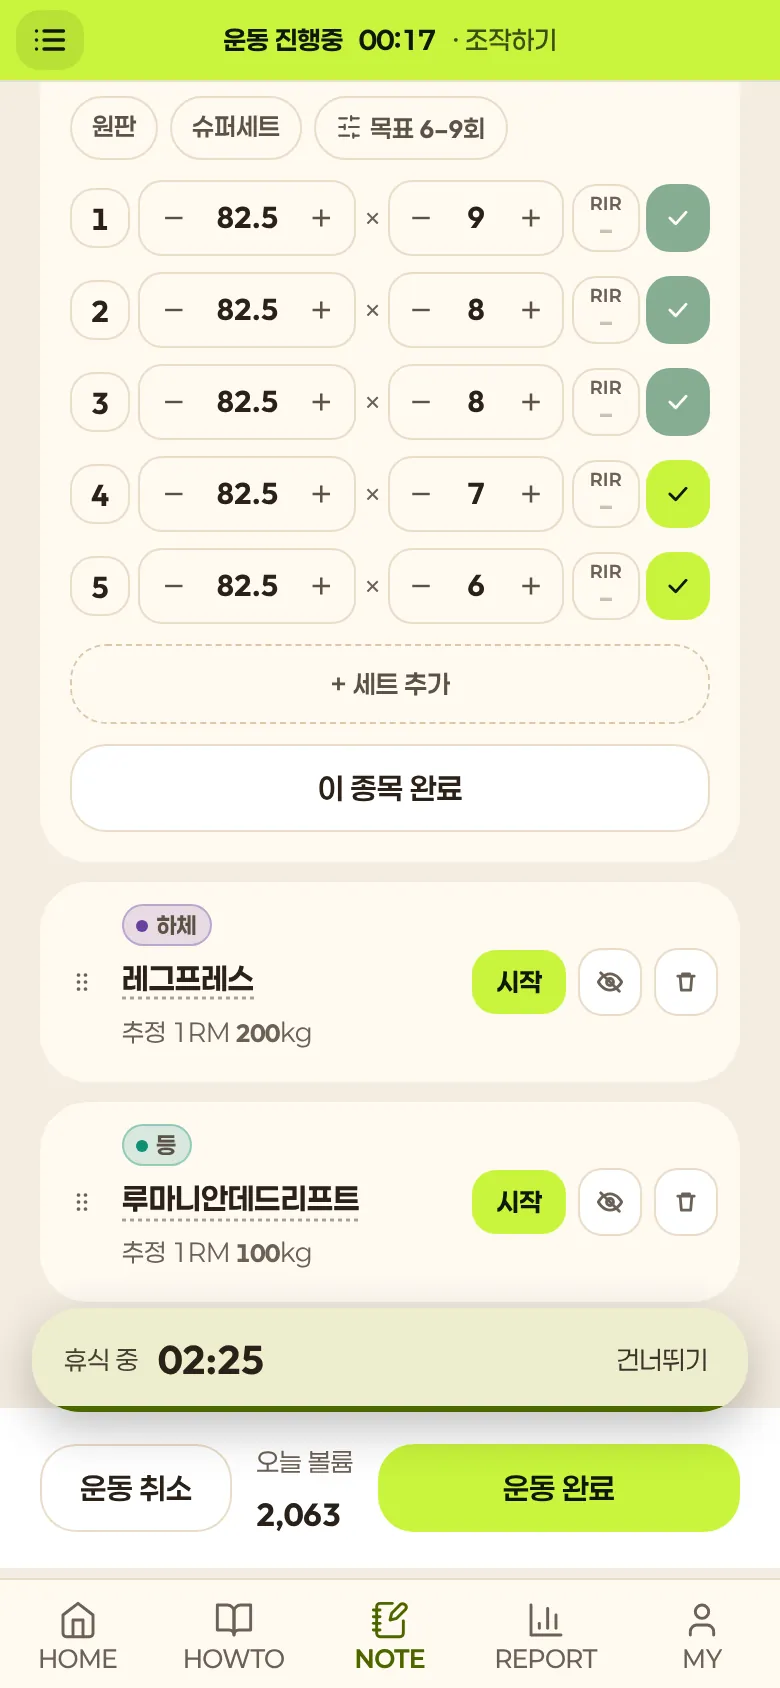
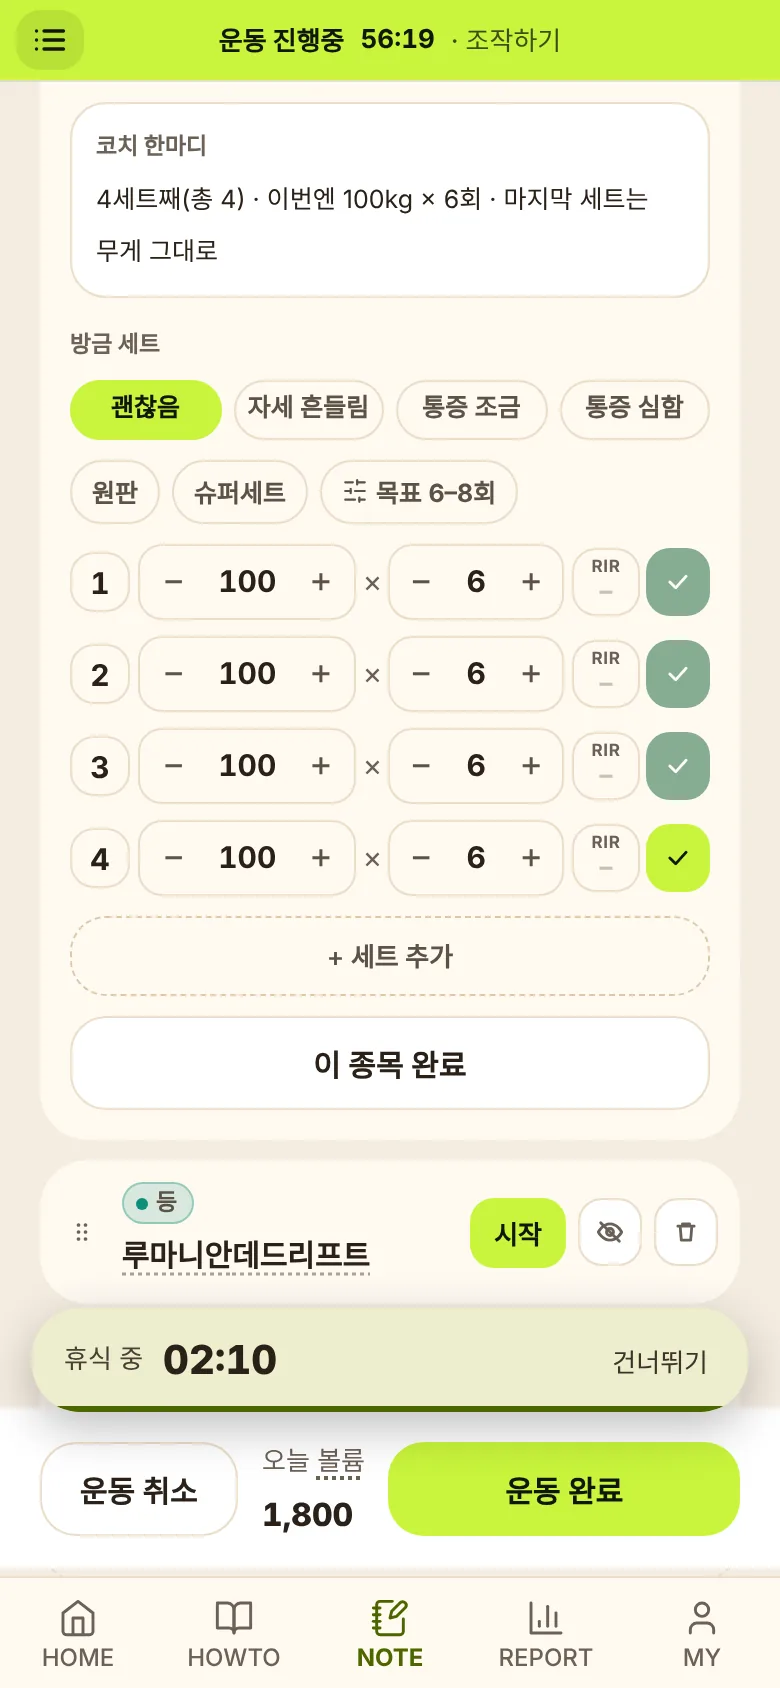
운동 기록 기기 보관·새 기록만 읽기, 홍보 캡처 3장 최신화
전체 운동 기록을 localStorage bt-logs:{uid}에 보관하고 다음부터 createdAt·updatedAt 기준 새 기록만 읽음(10분 겹침, 하루 한 번 전체 맞춤, 오프라인 결과는 보관 안 함). 본인 최근 N개·날짜 범위 조회도 보관본에서 거름. updateWorkoutLog가 updatedAt 저장. 로그아웃·탈퇴 때 보관본 삭제.

홍보 페이지 cap-rest·cap-done·cap-calendar 다시 찍음.

Claude-Session: https://claude.ai/code/session_01KGz5zPYeKa3pP3q5ULu5w4

diff --git a/src/storage.js b/src/storage.js
@@ -818,7 +818,8 @@ export async function updateWorkoutLog(uid, logId, partial) {
   recentLogsCache = null
   patchAllLogsCache(uid, (list) => list.map((l) => (l.id === logId ? readLogDoc({ id: logId, data: () => ({ ...l, ...partial }) }) : l)))
   // [2026-11-01] 오프라인에서 '저장 중'에 멈추지 않게(전체 점검 U3)
-  await settleOrTimeout(updateDoc(doc(db, 'workoutLogs', uid, 'logs', logId), partial))
+  // [2026-11-12] 다른 기기가 고친 기록만 골라 읽을 수 있게 updatedAt을 남긴다(getAllWorkoutLogs)
+  await settleOrTimeout(updateDoc(doc(db, 'workoutLogs', uid, 'logs', logId), { ...partial, updatedAt: serverTimestamp() }))
   rebuildPersonalRecords(uid, { withActivity: 'date' in (partial || {}) || 'exercises' in (partial || {}) }).catch(() => {})
 }
 
@@ -861,6 +862,9 @@ export async function deleteWorkoutLogAndRevertXp(uid, logId, xp) {
 }
 
 export async function getWorkoutLogsInRange(uid, fromDateStr, toDateStr) {
+  // [2026-11-12] 이 기기에 전체 기록 보관본이 있으면 거기서 거른다(새 기록만 읽어 맞춘 목록, 본인 기록만 - 트레이너가 보는 회원 기록은 그대로 조회)
+  const local = await localLogs(uid)
+  if (local) return local.filter((l) => l.date >= fromDateStr && l.date <= toDateStr)
   const col = collection(db, 'workoutLogs', uid, 'logs')
   const q = query(
     col,
@@ -879,23 +883,106 @@ function readLogDoc(d) {
 
 // [2026-10-27 신규] 전체 운동 기록(CSV 내보내기·성취·PR 재계산), 날짜 오름차순
 // [2026-10-31] Spark 읽기 절약: 같은 탭(세션)에서는 한 번만 읽고, 이 기기에서 기록을 저장·수정·삭제하면
-// 비운다(invalidateRecentLogsCache). 다른 기기에서 쓴 기록은 앱을 다시 열면 반영된다.
+// 캐시에 그 자리에서 반영한다(patchAllLogsCache).
+// [2026-11-12] 앱을 열 때마다 전체 기록을 처음부터 읽지 않게, 이 기기(localStorage `bt-logs:{uid}`)에 보관하고
+// 다음부터는 새로 만들어졌거나(createdAt) 고친(updatedAt) 기록만 읽는다. 다른 기기에서 지운 기록은
+// 하루 한 번 전체를 다시 읽어 맞춘다. 서버 시각과 기기 시각 차이를 감안해 10분 겹쳐 읽는다(같은 ID는 하나로).
+// 저장 시 createdAt·updatedAt(Timestamp)은 빼고 보관한다(화면에서 쓰지 않음). 로그아웃·탈퇴 때 지운다(firebase.js logout).
 // 돌려받은 배열은 여러 화면이 함께 쓰므로 수정하지 말 것.
 let allLogsCache = null // { uid, at, promise }
+const ALL_LOGS_TTL_MS = 10 * 60 * 1000
+const LOGS_STORE_VERSION = 1
+const LOGS_FULL_REFRESH_MS = 24 * 60 * 60 * 1000
+const LOGS_SYNC_OVERLAP_MS = 10 * 60 * 1000
+const LOGS_STORE_MAX_CHARS = 3_500_000
+const logsStoreKey = (uid) => `bt-logs:${uid}`
+const logTsMs = (t) => (t?.toMillis ? t.toMillis() : typeof t?.seconds === 'number' ? t.seconds * 1000 : 0)
+// 같은 날짜는 문서 ID 순(Firestore 정렬과 같게 - 최근 N개를 뒤에서 자를 때 결과가 같도록)
+const byDateAsc = (a, b) => (a.date < b.date ? -1 : a.date > b.date ? 1 : a.id < b.id ? -1 : a.id > b.id ? 1 : 0)
+
+function readLogsStore(uid) {
+  try {
+    const s = JSON.parse(localStorage.getItem(logsStoreKey(uid)) || 'null')
+    if (!s || s.v !== LOGS_STORE_VERSION || s.uid !== uid || !Array.isArray(s.logs)) return null
+    return s
+  } catch {
+    return null
+  }
+}
+function writeLogsStore(uid, logs, mark, fullAt) {
+  try {
+    const clean = logs.map(({ createdAt, updatedAt, ...rest }) => rest)
+    const text = JSON.stringify({ v: LOGS_STORE_VERSION, uid, mark, fullAt, logs: clean })
+    if (text.length > LOGS_STORE_MAX_CHARS) throw new Error('too big')
+    localStorage.setItem(logsStoreKey(uid), text)
+  } catch {
+    // 용량이 넘치거나 저장할 수 없으면 보관하지 않는다(다음에 전체를 읽음)
+    try {
+      localStorage.removeItem(logsStoreKey(uid))
+    } catch {}
+  }
+}
+// 문서들 가운데 가장 늦은 서버 시각(createdAt·updatedAt)
+function latestMark(docs, prev = 0) {
+  let m = prev
+  docs.forEach((d) => {
+    const data = d.data()
+    m = Math.max(m, logTsMs(data.createdAt), logTsMs(data.updatedAt))
+  })
+  return m
+}
+
+async function loadAllLogs(uid) {
+  const col = collection(db, 'workoutLogs', uid, 'logs')
+  const stored = readLogsStore(uid)
+  const now = Date.now()
+  if (stored && stored.mark && now - (stored.fullAt || 0) < LOGS_FULL_REFRESH_MS) {
+    const since = Timestamp.fromMillis(Math.max(0, stored.mark - LOGS_SYNC_OVERLAP_MS))
+    const [created, updated] = await Promise.all([
+      getDocs(query(col, where('createdAt', '>', since))),
+      getDocs(query(col, where('updatedAt', '>', since))),
+    ])
+    const fresh = new Map()
+    ;[...created.docs, ...updated.docs].forEach((d) => fresh.set(d.id, readLogDoc(d)))
+    const logs = [...stored.logs.filter((l) => !fresh.has(l.id)), ...fresh.values()].sort(byDateAsc)
+    // 오프라인이라 기기 캐시에서 온 결과면 기준 시각을 옮기지 않는다(연결되면 다시 맞춤)
+    const offline = created.metadata?.fromCache || updated.metadata?.fromCache
+    writeLogsStore(uid, logs, offline ? stored.mark : latestMark([...created.docs, ...updated.docs], stored.mark), stored.fullAt)
+    return logs
+  }
+  const snap = await getDocs(query(col, orderBy('date', 'asc')))
+  const logs = snap.docs.map(readLogDoc)
+  // 기록이 없거나 서버 시각이 없는 옛 기록뿐이면 지금 시각을 기준으로(겹쳐 읽기 10분이 있어 놓치지 않음)
+  // 오프라인이면 일부만 받았을 수 있어 보관하지 않는다
+  if (!snap.metadata?.fromCache) writeLogsStore(uid, logs, latestMark(snap.docs) || now - LOGS_SYNC_OVERLAP_MS, now)
+  return logs
+}
+
+// 본인 기록 보관본(또는 이번 세션 캐시)이 있으면 전체 기록 목록, 없거나 실패하면 null(호출한 쪽이 직접 조회)
+async function localLogs(uid) {
+  if (!uid) return null
+  if (!(allLogsCache && allLogsCache.uid === uid) && !readLogsStore(uid)) return null
+  try {
+    return await getAllWorkoutLogs(uid)
+  } catch {
+    return null
+  }
+}
+
 export function getAllWorkoutLogs(uid) {
-  // 오프라인 때 받은 일부 결과가 오래 고정되지 않게 10분이 지나면 다시 읽는다
-  if (allLogsCache && allLogsCache.uid === uid && Date.now() - allLogsCache.at < 10 * 60 * 1000) return allLogsCache.promise
-  const promise = getDocs(query(collection(db, 'workoutLogs', uid, 'logs'), orderBy('date', 'asc')))
-    .then((snap) => snap.docs.map(readLogDoc))
-    .catch((err) => {
-      if (allLogsCache?.promise === promise) allLogsCache = null
-      throw err
-    })
+  // 오프라인 때 받은 일부 결과가 오래 고정되지 않게 10분이 지나면 다시 맞춘다(보관본이 있으면 새 기록만 읽음)
+  if (allLogsCache && allLogsCache.uid === uid && Date.now() - allLogsCache.at < ALL_LOGS_TTL_MS) return allLogsCache.promise
+  const promise = loadAllLogs(uid).catch((err) => {
+    if (allLogsCache?.promise === promise) allLogsCache = null
+    throw err
+  })
   allLogsCache = { uid, at: Date.now(), promise }
   return promise
 }
 
 export async function getRecentWorkoutLogs(uid, count = 10) {
+  const local = await localLogs(uid)
+  if (local) return local.slice(-count).reverse()
   const col = collection(db, 'workoutLogs', uid, 'logs')
   const q = query(col, orderBy('date', 'desc'), limit(count))
   const snap = await getDocs(q)
@@ -912,10 +999,20 @@ function invalidateRecentLogsCache() {
 }
 // [2026-11-10] 이 기기에서 저장·수정·삭제한 기록을 전체 기록 캐시에 바로 반영(다시 읽지 않음). 캐시가 없으면 아무것도 안 함.
 // 날짜 오름차순 유지, 배열은 새로 만든다(여러 화면이 같은 배열을 읽으므로 고치지 않음).
+// [2026-11-12] 이 기기 보관본(bt-logs)도 같이 고친다. 메모리 캐시가 없으면 보관본만 고친다(다음 동기화 기준 시각은 그대로).
 function patchAllLogsCache(uid, fn) {
-  if (!allLogsCache || allLogsCache.uid !== uid) return
+  if (!allLogsCache || allLogsCache.uid !== uid) {
+    const stored = readLogsStore(uid)
+    if (stored) writeLogsStore(uid, fn(stored.logs).sort(byDateAsc), stored.mark, stored.fullAt)
+    return
+  }
   const prev = allLogsCache.promise
-  const promise = prev.then((list) => fn(list).sort((a, b) => (a.date < b.date ? -1 : a.date > b.date ? 1 : 0)))
+  const promise = prev.then((list) => {
+    const next = fn(list).sort(byDateAsc)
+    const stored = readLogsStore(uid)
+    if (stored) writeLogsStore(uid, next, stored.mark, stored.fullAt)
+    return next
+  })
   promise.catch(() => {
     if (allLogsCache?.promise === promise) allLogsCache = null
   })
@@ -1737,6 +1834,9 @@ function recentSeasonKeys(years = 3) {
 }
 export async function deleteMyAccountData(uid, onProgress) {
   invalidateRecentLogsCache()
+  try {
+    localStorage.removeItem(logsStoreKey(uid))
+  } catch {}
   onProgress?.('운동 기록을 지우는 중…')
   await deleteAllDocs(collection(db, 'workoutLogs', uid, 'logs'), onProgress, '운동 기록')
   onProgress?.('루틴을 지우는 중…')

diff --git a/src/App.jsx b/src/App.jsx
@@ -1,6 +1,7 @@
 /**
  * CHANGELOG: 이 파일 상단 주석이 20줄을 넘어 CHANGELOG.md(저장소 루트)로 분리했습니다.
- * 최신 변경: [2026-11-12] 근육 그림 인체 모형 비율·손발, 담당 트레이너 카드 프로필 표시.
+ * 최신 변경: [2026-11-12] 운동 기록을 기기에 보관하고 새 기록만 읽기(Firestore 읽기 절약), 홍보 캡처 3장 최신화.
+ *            직전: [2026-11-12] 근육 그림 인체 모형 비율·손발, 담당 트레이너 카드 프로필 표시.
  *            직전: [2026-11-11] 용어 뜻 보기(점선 말풍선 Term), 관리자 거절 사유 확인창, 옛 종목명 처방 키 정규화.
  *            그 전: [2026-11-11] 체중 추이(REPORT·MY), 근육 그림(REPORT·코치 프로그램), WorkoutInput 화면·훅 분리.
  *            직전: [2026-11-11] 남겨둔 작업: 트레이너 처방 무거운 세트 먼저·이탈 위험 기준·연락 문구·오늘 처리함·랭킹 100위 밖·WorkoutInput 분리.

diff --git a/src/firebase.js b/src/firebase.js
@@ -48,6 +48,12 @@ export function loginWithGoogle() {
 // 기록 중이던 운동 초안(localStorage)은 그대로 둔다. 캐시를 지운 Firestore는 다시 쓸 수 없어 첫 화면으로 새로 연다.
 export async function logout() {
   await signOut(auth)
+  // [2026-11-12] 이 기기에 보관한 운동 기록(storage.js getAllWorkoutLogs의 bt-logs:{uid})도 지운다
+  try {
+    Object.keys(localStorage)
+      .filter((k) => k.startsWith('bt-logs:'))
+      .forEach((k) => localStorage.removeItem(k))
+  } catch {}
   try {
     await terminate(db)
     await clearIndexedDbPersistence(db)

diff --git a/CLAUDE.md b/CLAUDE.md
@@ -2,7 +2,7 @@
 
 > 이 파일은 저장소 루트에 두고 Claude가 작업 시작 시 항상 먼저 읽는 작업 지침이다.
 > claude.ai 프로젝트 지침과 내용이 다르면 **이 파일이 최신 기준**이다. 규칙이 바뀌면 이 파일을 갱신하고 커밋한다.
-> 최종 갱신: 2026-11-12 (근육 그림 인체 모형 비율·담당 트레이너 카드 프로필, 용어 뜻 보기 Term·확인창 입력칸, 옛 CLAUDE.md 사본·PC 폴더 뒤처짐 사고 규칙, 푸시 뒤 인수인계 문서 자동 커밋, 전면 재검토 반영: ± 길게 누르기·해부도 근육 그림·트레이너 랭킹 제외·문구 용어 정리, 확대 막기·소리 크기·진동 세기·오늘 몸 상태 코칭·종목별 진행 방식, 코치 프로그램 줄 맞춤·운동명 HOWTO 연결·순간 강조 모션, 트레이너 처방·홍보 페이지 반영·동의 다시 받기 보류, 다음 채팅 인계·규칙 게시 확인, 전체 점검 반영, 로그 코치 2차: 생활 체력 종목·건강 체력 4가지·체력 점검, 로그 코치 '내 프로그램 만들기', 다음 채팅 인계 갱신, 푸시 전 확인 대기 작업 처리·규칙 파일 전달, 로그 코치 켜기·끄기·강화, 푸시 전 QA 규칙, 커밋·푸시 운영: wip 브랜치 보관·배포 없음, 세션 시작 환경 판별, 사용자 git 명령 없음, 2026-11-01 다음 채팅 인계 갱신, 2차 점검 반영: 랭킹 시즌 평균·미결제 PT·트레이너 HOME·memberPrivate·App Check·기록 트랜잭션, 전체 점검 반영: 입력값 확인·저장 실패 처리·관리자 정합성·보안 규칙 강화, 법적 정비 구현·Spark 한도 절약·홍보 페이지 문장 단위 줄바꿈, Phase2 P2-1 회원 승인·관리자 대시보드·P2-2 트레이너 연결, 다음 무게 추천 고도화, 법적·라이선스 기준·다음 작업 인계 추가, 스트레칭 가이드·목표 5종, 목표 우선순위 맞춤 설정·성취 30종·트레이너 관점 개선·등급 방패 아이콘, 자동 저장 검토 팝업·MY 설정 화면, 온보딩 닉네임·주당 목표, 디자인 기본값·MY 접기, 등급 Lv 리뉴얼·전면 점검 반영, 옛 claude.ai 프로젝트 지침 v9 통합, Claude 직접 커밋·푸시, 자동 배포 복구, 전면 리뉴얼 v10 반영, 기록 화면 미리보기·폰트 5종 비교·GIF 삭제, 전 화면 리디자인·강조색 팔레트 5종)
+> 최종 갱신: 2026-11-12 (운동 기록 기기 보관·새 기록만 읽기, 근육 그림 인체 모형 비율·담당 트레이너 카드 프로필, 용어 뜻 보기 Term·확인창 입력칸, 옛 CLAUDE.md 사본·PC 폴더 뒤처짐 사고 규칙, 푸시 뒤 인수인계 문서 자동 커밋, 전면 재검토 반영: ± 길게 누르기·해부도 근육 그림·트레이너 랭킹 제외·문구 용어 정리, 확대 막기·소리 크기·진동 세기·오늘 몸 상태 코칭·종목별 진행 방식, 코치 프로그램 줄 맞춤·운동명 HOWTO 연결·순간 강조 모션, 트레이너 처방·홍보 페이지 반영·동의 다시 받기 보류, 다음 채팅 인계·규칙 게시 확인, 전체 점검 반영, 로그 코치 2차: 생활 체력 종목·건강 체력 4가지·체력 점검, 로그 코치 '내 프로그램 만들기', 다음 채팅 인계 갱신, 푸시 전 확인 대기 작업 처리·규칙 파일 전달, 로그 코치 켜기·끄기·강화, 푸시 전 QA 규칙, 커밋·푸시 운영: wip 브랜치 보관·배포 없음, 세션 시작 환경 판별, 사용자 git 명령 없음, 2026-11-01 다음 채팅 인계 갱신, 2차 점검 반영: 랭킹 시즌 평균·미결제 PT·트레이너 HOME·memberPrivate·App Check·기록 트랜잭션, 전체 점검 반영: 입력값 확인·저장 실패 처리·관리자 정합성·보안 규칙 강화, 법적 정비 구현·Spark 한도 절약·홍보 페이지 문장 단위 줄바꿈, Phase2 P2-1 회원 승인·관리자 대시보드·P2-2 트레이너 연결, 다음 무게 추천 고도화, 법적·라이선스 기준·다음 작업 인계 추가, 스트레칭 가이드·목표 5종, 목표 우선순위 맞춤 설정·성취 30종·트레이너 관점 개선·등급 방패 아이콘, 자동 저장 검토 팝업·MY 설정 화면, 온보딩 닉네임·주당 목표, 디자인 기본값·MY 접기, 등급 Lv 리뉴얼·전면 점검 반영, 옛 claude.ai 프로젝트 지침 v9 통합, Claude 직접 커밋·푸시, 자동 배포 복구, 전면 리뉴얼 v10 반영, 기록 화면 미리보기·폰트 5종 비교·GIF 삭제, 전 화면 리디자인·강조색 팔레트 5종)
 
 ---
 
@@ -212,6 +212,7 @@
   - 플랭크·사이드플랭크·백플랭크는 횟수 칸에 초(볼륨 제외, 리포트 레이더는 3초 = 1회로 환산).
 - **체크(V)한 세트만 기록·볼륨에 들어간다(2026-11-09 사용자 버그 신고로 변경)**: 예전엔 값을 고친 행(auto·planned 해제)도 체크 없이 기록됐는데, 다음 세트 행의 무게만 미리 바꿔 둔 채 종목·운동을 완료하면 하지 않은 세트가 저장되고 오늘 볼륨에도 더해졌다. 지금 `sessionPayload.isCountableSet` = saved만. '이 종목 완료'는 체크 안 한 행(자동·플랜대로 하기·세트 추가·코치 적용·웜업 세트로 만든 행)을 모두 지우고, 값을 고친 행(`isEditedUnsaved`)이 있으면 '한 세트로 저장 / 지우기'를 한 번 묻는다. 운동 완료 때 남은 체크 안 한 행은 종목 이름과 함께 묻는다(`uncheckedByExercise`) - 세트 저장 후 생긴 "다음 세트" 자동 행은 묻지도 넣지도 않는다. 완료한 종목을 펼치면 '다시 하기(완료 취소)'. 운동명 → 대신 할 운동 '바꾸기'는 새 종목을 처음 여는 것과 같게 열고(`openExercise`, 예전엔 빈 카드), 가이드 화면은 '루틴도 바꾸기' 확인창 뒤에 닫는다(겹치면 뒤로가기 기록이 한 칸 더 지워져 앱이 닫히던 문제).
 - **미완료 세션 보호**: 진행 세션을 localStorage + `activeSessions/{uid}`에 백업. 마지막 활동(세트 저장·단계 변경·일시정지/재개, `draft.activityAt`) 후 3시간 방치 시 자동 저장(시작 날짜 기준, 일시정지 제외 시간). 같은 세션 ID로 이미 저장된 기록이 있으면 새 세트가 더 많을 때 기존 기록에 합친다(`storage.mergeDuplicateLog`, XP 다시 안 줌) → 다음에 앱을 열면 검토 팝업(`AutoSavedReview.jsx`: 웜업·본운동 분, 세트 값 수정·삭제 → 저장 / 그대로 둘게요 / 기록 삭제). 캘린더 기록 편집에도 운동 시간(분) 칸. 기록 ID는 `session-{시작ms}`로 고정(중복 방지).
+- **운동 기록 읽기 절약(2026-11-12)**: `storage.getAllWorkoutLogs`는 전체 기록을 이 기기 localStorage `bt-logs:{uid}`에 보관하고, 다음부터는 `createdAt`·`updatedAt`이 기준 시각(10분 겹침) 이후인 기록만 읽어 합친다. 하루 한 번 전체를 다시 읽어 다른 기기에서 지운 기록을 맞추고, 오프라인 결과(fromCache)는 보관하지 않는다. 본인 `getRecentWorkoutLogs`·`getWorkoutLogsInRange`도 보관본이 있으면 거기서 거른다(트레이너가 보는 회원 기록은 직접 조회). 기록을 고치는 쓰기는 반드시 `updateWorkoutLog`(updatedAt 저장)로 하고, 저장·삭제는 `patchAllLogsCache`로 보관본도 고친다. 로그아웃(firebase.js)·계정 삭제 때 보관본을 지운다.
 - 웜업 세트는 볼륨·XP·과부하·근육별 세트·PR에서 제외.
 - 휴식 종료 알림(최초 사용 시 권한 요청) + 알림음 선택(`restSoundId`). 끝 10초 전 '띡' + 짧은 진동(`RestTimer playPreAlert`, 휴식 20초 이하 생략, 폰 알림 없음, 2026-11-10). **소리 크기·진동 세기(2026-11-09)**: 휴식 알림음·완료 효과음 모두 `utils/audioOut.js` 공용 컨텍스트 → 전체 음량(GainNode, 100%일 때 ×1.8) → 리미터(DynamicsCompressor -3dB) - 기본을 크게 하되 찌그러지지 않게. MY › 설정 '소리 크기'(`users.alertVolume`)·'진동 세기'(`users.vibrationLevel`, 웹 진동은 세기가 없어 길이·횟수로, 0=끔, 아이폰 사파리 미지원 안내) 0–100·기본 100, App이 렌더 중 `setAlertLevels`, rules 0–100 정수. 앱 화면 확대·축소는 막음(2026-11-09 사용자 요청, index.html viewport + 아이폰 gesturestart, tokens.css touch-action: manipulation, 소개·처리방침은 확대 허용). 소셜 알림 옵트인은 전체 on/off만(Phase2).
 - **스트레칭 가이드**(2026-10-30): `utils/stretches.js`(43종, 부위 9·상황 3·기구 6(2026-11-02: 맨몸·벽·기둥·수건·밴드·폼롤러·마사지볼, `equip` 배열, 칩 필터), 저장 안 함) + `StretchGuide.jsx`. 운동 화면 추천은 맨몸·벽·수건 종목만. HOWTO 상단 "운동 둘러보기/스트레칭" 전환, 웜업 화면 동적 3개·완료 요약 쿨다운 3개(`recommendStretches`, 오늘 운동 부위 기준). 운동 전 동적·운동 후 정적 30초 원칙. 영상은 YouTube 검색 링크만.

diff --git a/CHANGELOG.md b/CHANGELOG.md
@@ -2,6 +2,7 @@
 
 (20줄 초과로 src/App.jsx 상단 주석에서 이 파일로 분리됨)
 
+[2026-11-12] Firestore 읽기 줄이기·홍보 캡처 최신화(사용자 요청): ① 전체 운동 기록을 이 기기(localStorage bt-logs:{uid})에 보관하고 다음부터는 새로 만들었거나 고친 기록만 읽음(createdAt·updatedAt, 서버·기기 시각 차이 10분 겹쳐 읽기), 다른 기기에서 지운 기록은 하루 한 번 전체를 다시 읽어 맞춤, 오프라인 결과는 보관하지 않음. 최근 N개·날짜 범위 조회(HOME·NOTE·캘린더·로그 코치)도 보관본이 있으면 거기서 거름(트레이너가 보는 회원 기록은 그대로 조회). 기록을 고치면 updatedAt 저장. 로그아웃·계정 삭제 때 보관본 삭제. 하네스 기준 앱 한 번 열 때 운동 기록 읽기 약 56건 → 2건(기록 27개) ② 홍보 페이지 캡처 3장(휴식 타이머·운동 완료 요약·캘린더)을 지금 화면으로 다시 찍음 | storage.js getAllWorkoutLogs·loadAllLogs·localLogs·patchAllLogsCache·getRecentWorkoutLogs·getWorkoutLogsInRange·updateWorkoutLog·deleteMyAccountData, firebase.js logout, public/intro/img/cap-rest·cap-done·cap-calendar.webp
 [2026-11-12] 근육 그림 인체 모형 비율로 다듬기(사용자 요청: 손발이 없어 어색함, 머리 작음): 머리 약 8등신·목·마네킹형 얼굴, 손가락 있는 손·발가락 선 있는 발, 무릎뼈·쇄골·발목 윤곽, 근육 좌우 명암, 허리 곡선. 여성은 머리카락 없이 몸매로 구분(사용자 확인). PC 폴더에서 GPT가 고친 옛 버전 파일을 최신 코드에 옮기고 11-11 기능(MuscleFigures·ATOM_FIGURE_IDS·targetsForExercises·height)을 다시 붙임 | MuscleMap.jsx
 [2026-11-11] 담당 트레이너 카드에 트레이너 프로필 표시(사용자 요청): 사진·직함·전문 분야·소개 3줄·경력 2줄·레슨 시간·프로필 전체 보기·인스타그램, 연결 해제는 아래 줄로. 프로필이 계정과 연결 안 됐으면 같은 이름 프로필(하나뿐일 때) | MyPageTab.jsx 담당 트레이너 카드, App.jsx onShowTrainerDirectory profileId
 [2026-11-11] 홍보 페이지 캡처 최신화: 트레이너 회원 화면·회원 처방 화면을 지금 버튼 문구로 다시 찍고, 06 근육 그림·07 체중 추이 기능 소개 추가(목업 데이터) | public/intro/index.html, public/intro/img/cap-trainer·cap-ptplan(교체)·cap-muscle·cap-weight(새).webp
